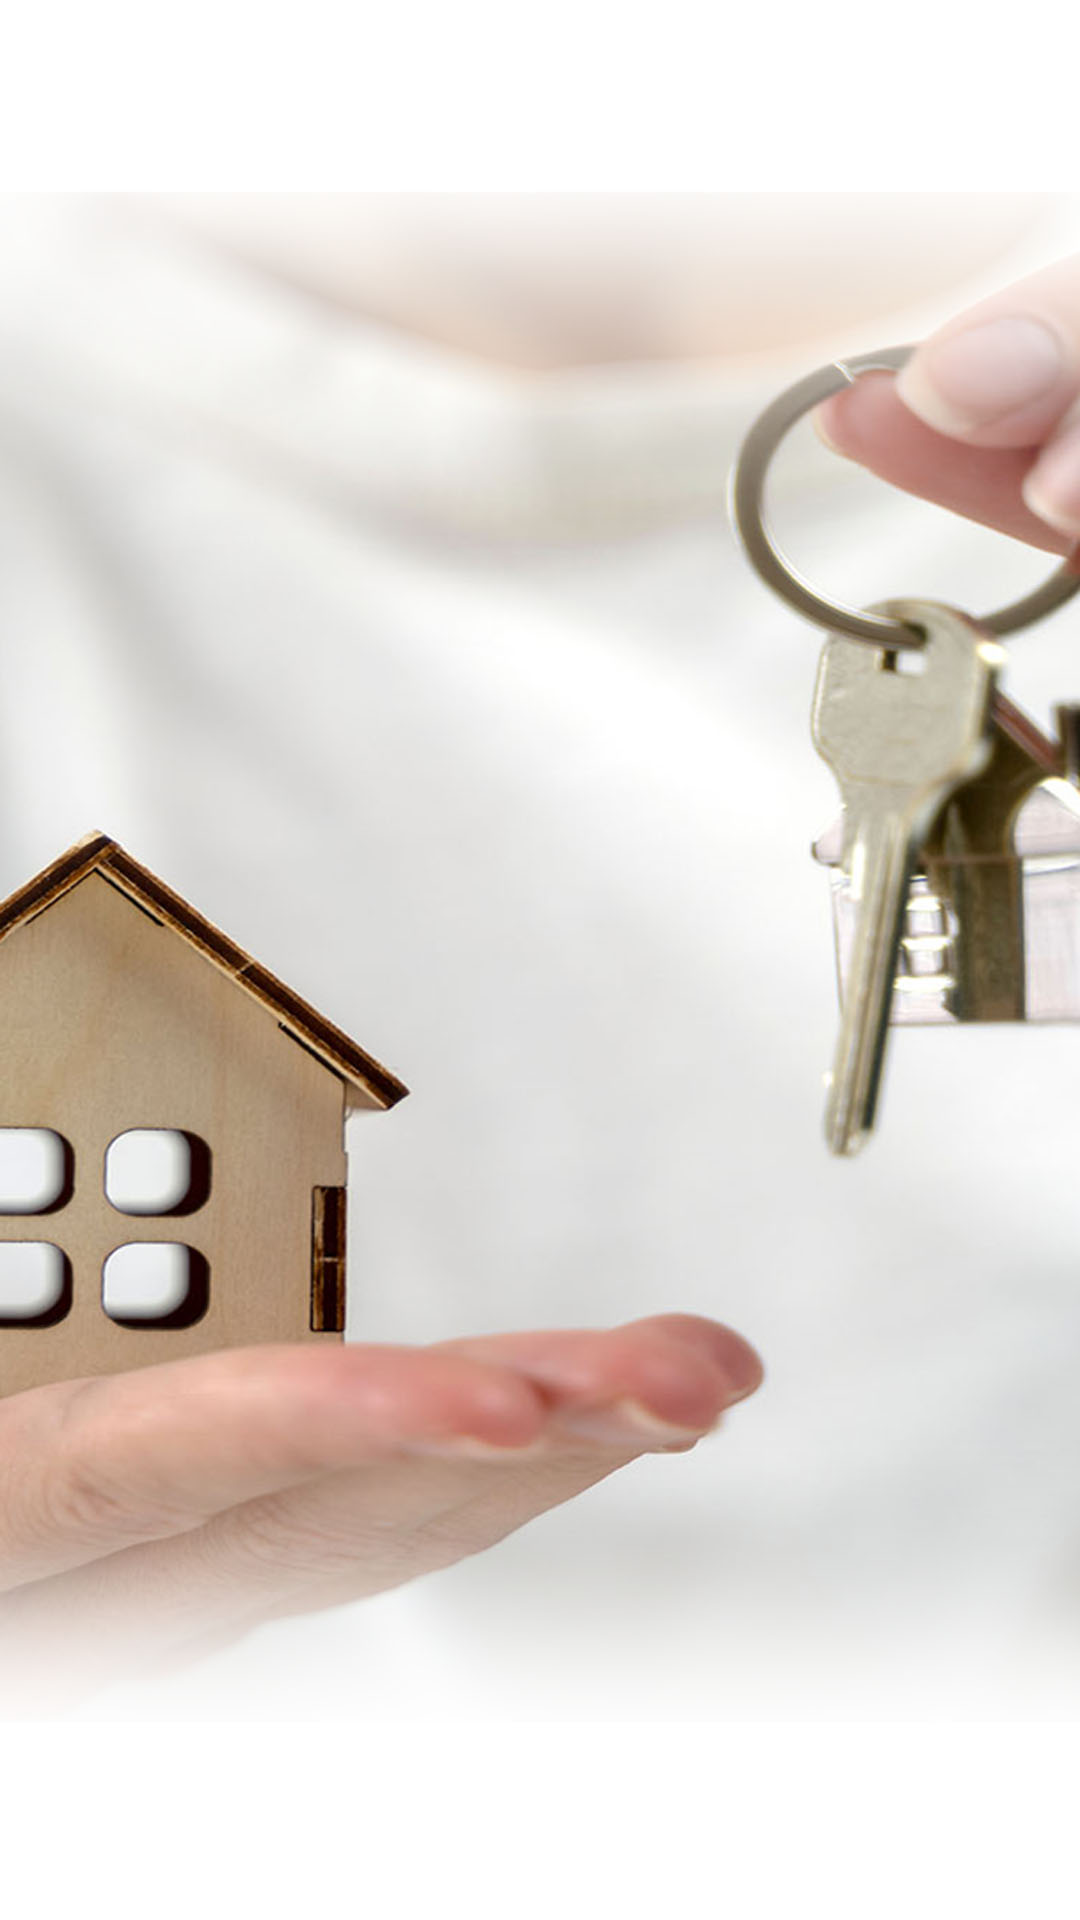
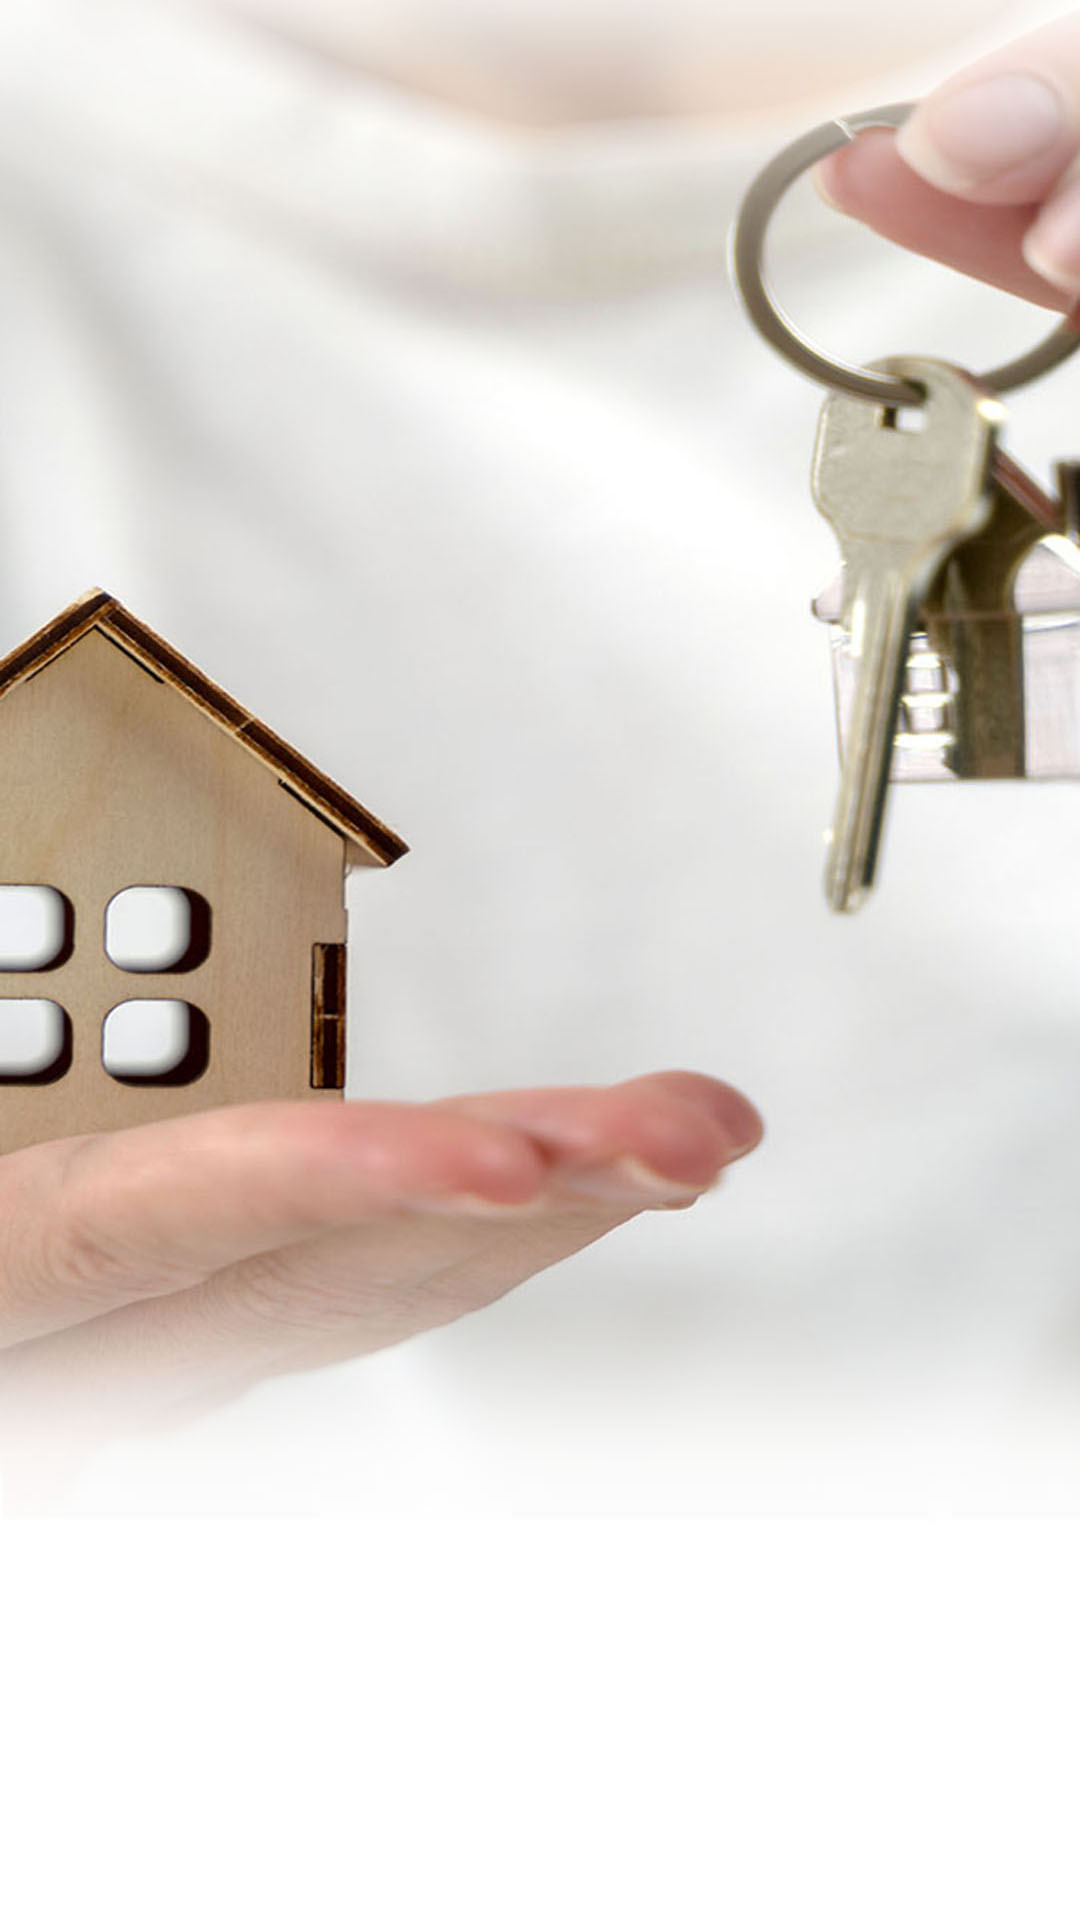
more images

diff --git a/src/pages/HomePage/HomePage.css b/src/pages/HomePage/HomePage.css
@@ -81,9 +81,9 @@
         background-image: linear-gradient(90deg, rgba(255, 255, 255, .3) 0%, rgba(231, 231, 231, .3) 22.39%, rgba(209, 209, 209,  .3) 42.6%, rgba(182, 182, 182, .3) 79.19%, rgba(156, 156, 156, .3) 104.86%);
     }
 
-    .p-home .p-home-carousel .carousel-inner .carousel-second-item > img {
-        src: url('../../asserts/login.jpg');
-    }
+    /* .p-home .p-home-carousel .carousel-inner .carousel-second-item > img {
+        background: url('../../asserts/login.jpg') no-repeat;
+    } */
 
     .p-home .p-home-carousel .carousel-inner .carousel-third-item .carousel-caption > h3 {
         margin-bottom: 10%; 

diff --git a/src/pages/HomePage/HomePage.js b/src/pages/HomePage/HomePage.js
@@ -2,9 +2,9 @@ import React from 'react';
 import { Carousel, Container } from 'react-bootstrap';
 import './HomePage.css';
 import image1 from '../../asserts/home_mobile.jpg';
-import image2 from '../../asserts/login_mobile.jpg';
+import image2 from '../../asserts/tenants_mobile.jpg';
 import image3 from '../../asserts/messages_mobile.jpg';
-import image4 from '../../asserts/issue.jpg';
+import image4 from '../../asserts/issue_mobile.jpg';
 import image5 from '../../asserts/vote_mobile.jpg';
 import image6 from '../../asserts/tenants.jpg';
 
